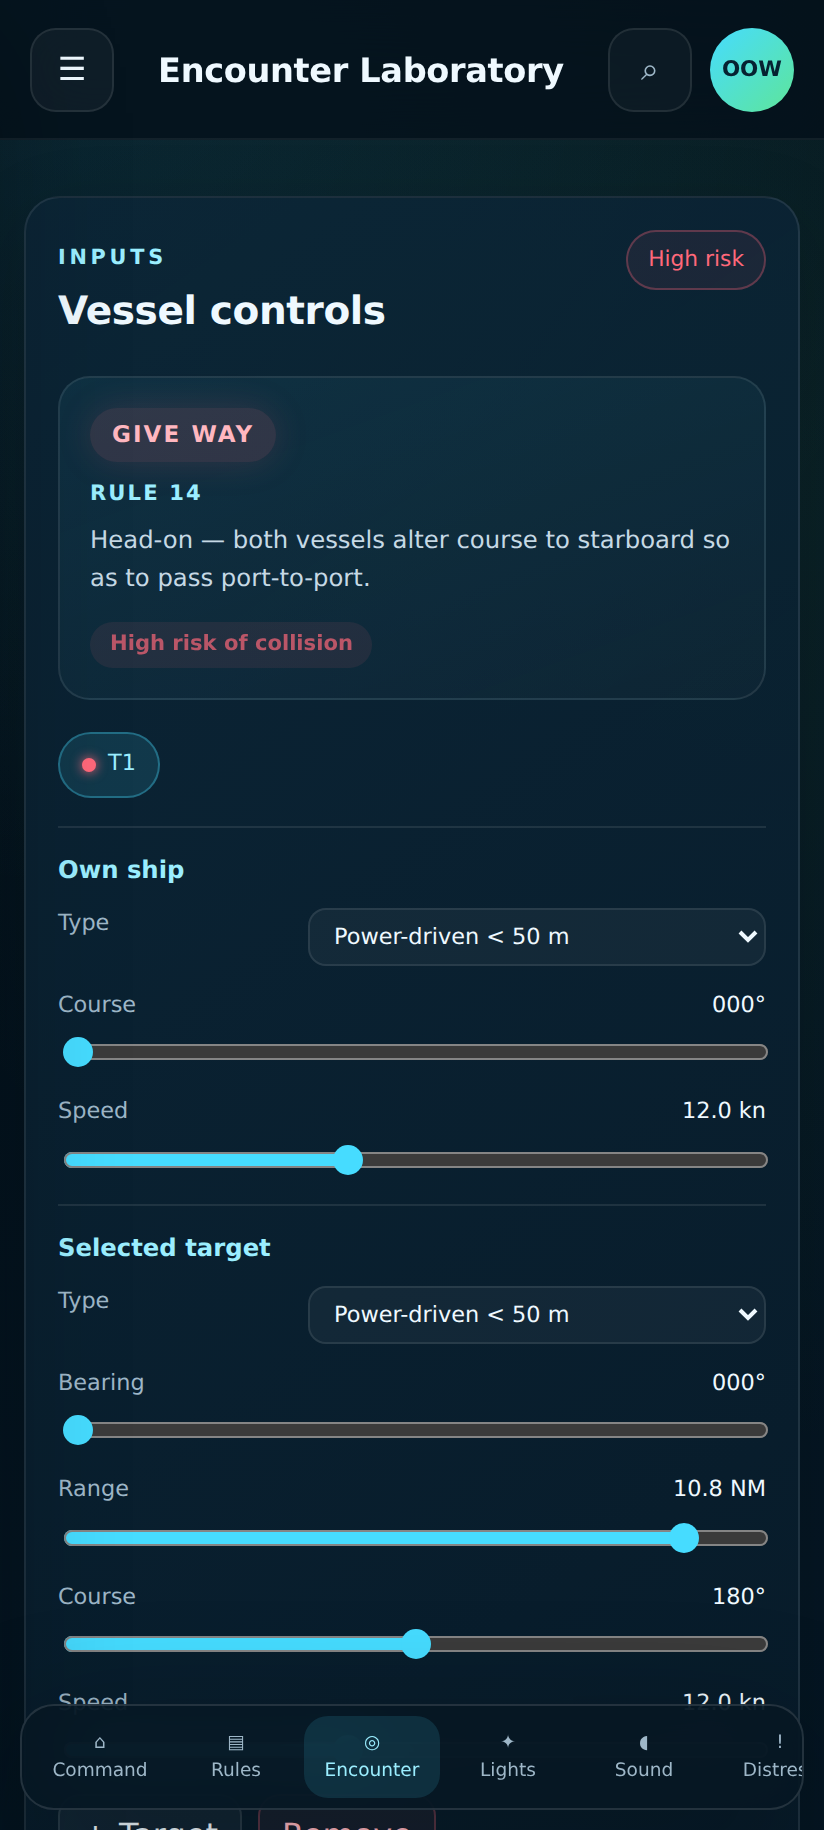
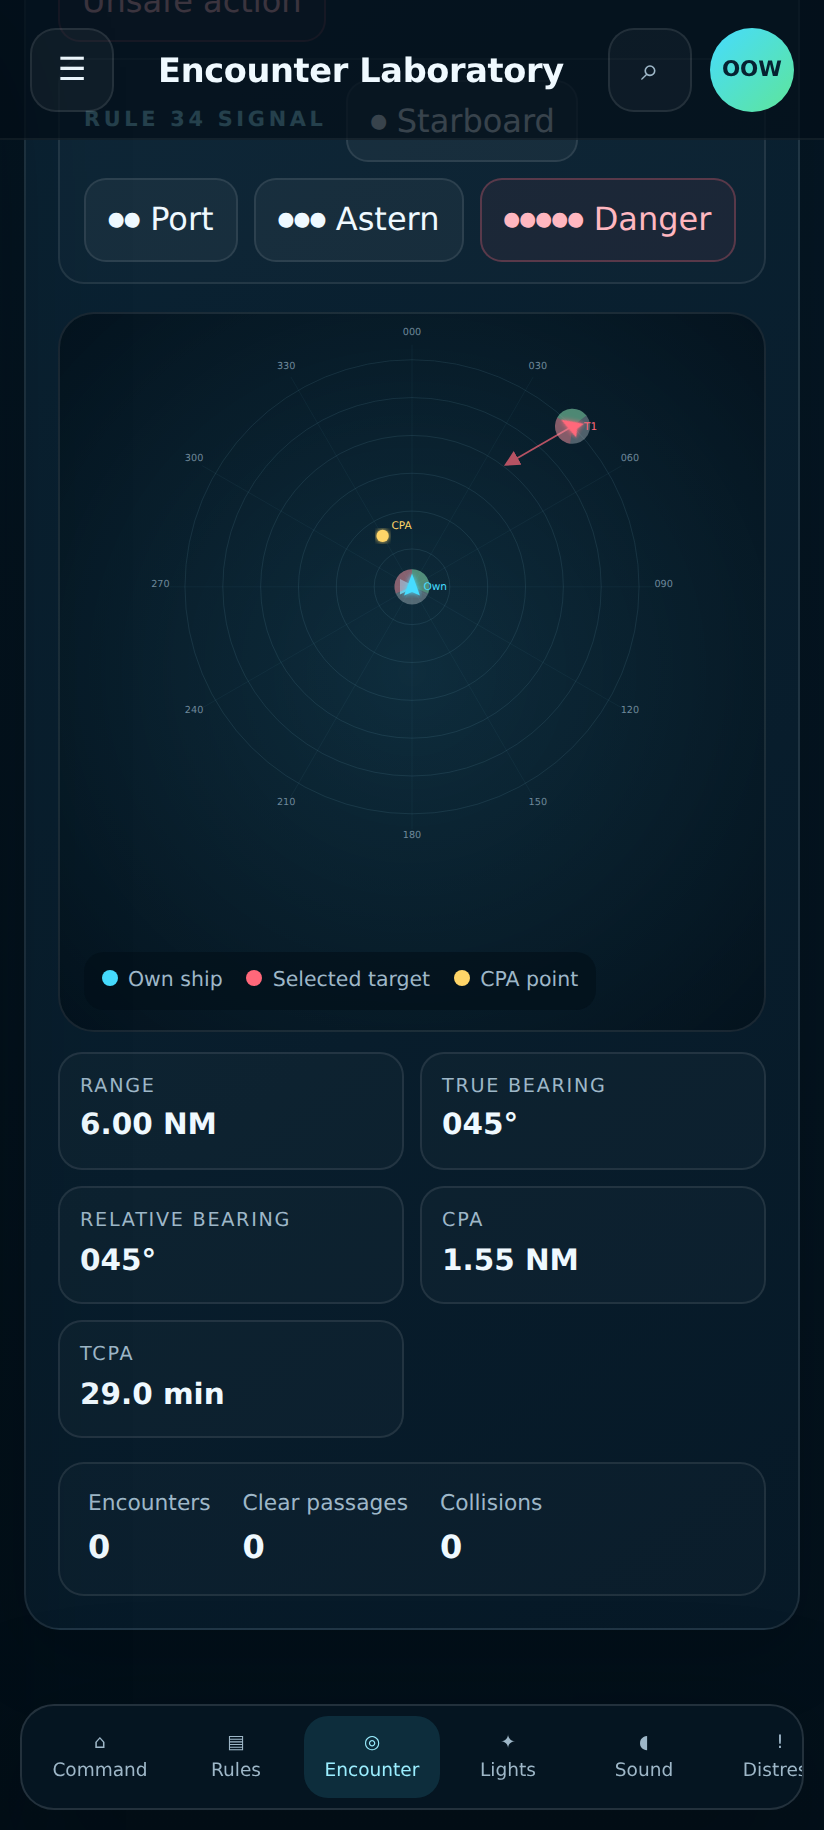
Fix the PWA label and regenerate the store screenshots
Bumps to v4.3.

The home screen described the app as a PWA, left over from its origin as a web
app. On Play it is a native Android app, and that was the one plainly wrong
string in a store-facing view. The stat now reads "No account needed", which is
true and worth saying.

The four phone screenshots predated the rename and sold the app badly. The
Encounter Lab was represented by a page of sliders rather than the radar plot,
and Lights and Shapes by a list rather than a rendered night aspect.

All four are regenerated from the current build by test/screenshots.js, which
is committed so they can be refreshed after a UI change instead of recaptured
by hand. The Encounter Lab shot sets up a starboard crossing inside the plot
scale, so the relative-motion vector, the CPA point and the CPA/TCPA readouts
are all visible; the default head-on at 10.8 NM pins both vessels to the rim
and leaves the plot looking empty. Lights and Shapes shows the rendered
masthead and sidelights under their rule heading. Sound and Light shows the
pinned sequence panel mid-playback. The fourth slot was a rules list and is now
that signals view, which is more distinctive.

Two capture traps are handled in the script and worth recording, because both
produce results that look fine until inspected:

Headless Chromium renders the top bar's backdrop-filter over scrolled content
as an opaque white band rather than a blur, which put a white third at the top
[…]

diff --git a/ror-colreg/test/screenshots.js b/ror-colreg/test/screenshots.js
@@ -1,0 +1,153 @@
+/**
+ * Regenerates the Play Store phone screenshots from the current index.html.
+ *
+ *   node shots.js app/src/main/assets/index.html /out/dir
+ *
+ * Two things this handles that hand-capturing does not:
+ *
+ * - The premium views render their paywall unless the app thinks it is
+ *   unlocked, so the dev-unlock key is set before load.
+ * - The top bar is translucent, so whatever is scrolled underneath shows
+ *   through. Large headings ghosting behind it read as a rendering bug in a
+ *   store listing, so frameAt() nudges the scroll until a heading is not the
+ *   thing sitting under the bar.
+ */
+const { chromium } = require('playwright');
+const path = require('path');
+const OUT = process.argv[3];
+
+const setControls = vals => {
+  for (const [id, v] of Object.entries(vals)) {
+    const el = document.getElementById(id);
+    if (!el) { console.log('missing control ' + id); continue; }
+    el.value = v;
+    el.dispatchEvent(new Event('input', { bubbles: true }));
+    el.dispatchEvent(new Event('change', { bubbles: true }));
+  }
+};
+
+// Put `sel` at `top` px, then step down until no text sits behind the top bar.
+// The bar is semi-transparent, so text behind it ghosts through and reads as a
+// rendering fault in a store listing.
+//
+// Two earlier probes gave false "clear" readings and are worth not repeating:
+// elementsFromPoint stops at the topmost element and reports clear when that
+// element is a container, and scoping the query to .workspace missed the
+// headings entirely because they are not inside it. This walks every leaf that
+// carries text and tests the rectangle, excluding the bar itself and the
+// off-canvas sidebar (which sits at negative x on a phone viewport and would
+// otherwise never let the loop terminate).
+// Park `sel` exactly `top` px down, no searching. Use when the right framing is
+// known: a heading sitting fully below the bar reads fine, whereas the same
+// heading half-swallowed by a translucent bar looks like a rendering fault, and
+// no amount of nudging hides it when it sits directly above the content.
+const frameExact = (sel, top) => {
+  const el = document.querySelector(sel);
+  if (!el) return 'missing ' + sel;
+  const y = Math.max(0, el.getBoundingClientRect().top + window.scrollY - top);
+  window.scrollTo({ top: y, behavior: 'instant' });
+  return 'parked at y=' + Math.round(y);
+};
+
+const frameAt = (sel, top) => {
+  const el = document.querySelector(sel);
+  if (!el) return 'missing ' + sel;
+  const bar = document.querySelector('.topbar');
+  const barH = bar ? bar.getBoundingClientRect().height : 82;
+  const base = el.getBoundingClientRect().top + window.scrollY - top;
+  const vw = document.documentElement.clientWidth;
+
+  const ghosts = () => {
+    const out = [];
+    for (const e of document.querySelectorAll('body *')) {
+      if (e.children.length || e.closest('.topbar') || e.closest('.sidebar')) continue;
+      const t = (e.textContent || '').trim();
+      if (!t) continue;
+      const r = e.getBoundingClientRect();
+      if (r.right <= 0 || r.left >= vw) continue;          // off-canvas
+      if (r.bottom <= 2 || r.top >= barH - 2) continue;
+      // Something always sits behind a sticky bar, and small controls showing
+      // faintly through 78%-opaque navy is just how the app looks on a device.
+      // Only large type ghosts badly enough to read as a rendering fault.
+      if (parseFloat(getComputedStyle(e).fontSize) < 20) continue;
+      out.push(e.tagName.toLowerCase() + ':' + t.slice(0, 16));
+    }
+    return out;
+  };
+
+  // Somewhere in a continuous page there may be no clean offset at all, so
+  // score every candidate and return to the best one. The earlier version left
+  // the page wherever the last iteration happened to land, which framed the
+  // shot worse than not trying.
+  let best = { score: Infinity, y: base, why: [] };
+  for (let step = 0; step <= 12; step++) {
+    const y = Math.max(0, base + step * 36);
+    window.scrollTo({ top: y, behavior: 'instant' });
+    const g = ghosts();
+    if (g.length < best.score) best = { score: g.length, y, why: g };
+    if (!g.length) break;
+  }
+  window.scrollTo({ top: best.y, behavior: 'instant' });
+  return best.score === 0
+    ? 'clear at y=' + Math.round(best.y)
+    : 'best of ' + best.score + ' at y=' + Math.round(best.y) + ': ' + best.why.join(' | ');
+};
+
+(async () => {
+  const browser = await chromium.launch({ executablePath: '/opt/pw-browsers/chromium' });
+  const file = 'file://' + path.resolve(process.argv[2]);
+
+  const shots = [
+    { name: '1-home', view: 'home', settle: 900 },
+    { name: '2-encounters', view: 'encounters', settle: 1400,
+      // The default is a head-on at 10.8 NM, which pins both vessels to the rim
+      // and leaves the plot looking empty. A starboard crossing inside the scale
+      // shows the give-way verdict the module exists for.
+      setup: { targetBearing: 45, targetRange: 6, targetCourse: 300, ownCourse: 0 },
+      frame: ['.plot-wrap', 150] },
+    { name: '3-lights', view: 'lights', settle: 1000, frameExact: ['.visual-stage', 78] },
+    { name: '4-signals', view: 'signals', settle: 900, play: true },
+  ];
+
+  for (const s of shots) {
+    const page = await browser.newPage({ viewport: { width: 412, height: 915 }, deviceScaleFactor: 2 });
+    await page.addInitScript(() => localStorage.setItem('ror_v3_premium_dev_unlock', 'true'));
+    page.on('pageerror', e => console.log('  PAGEERROR:', e.message));
+    await page.goto(file);
+    // Headless Chromium renders backdrop-filter over scrolled content as a
+    // white band rather than a blur. On a device the bar blurs dark content and
+    // reads as the solid dark it already declares underneath, so dropping the
+    // filter for the capture matches the real appearance instead of faking it.
+    await page.addStyleTag({ content:
+      '.topbar,.paywall-overlay{backdrop-filter:none!important;-webkit-backdrop-filter:none!important}'
+      // The app scrolls smoothly, so window.scrollTo animates and a rect read
+      // straight after it still reports the pre-scroll position. That made the
+      // ghost probe below report a clean frame at every offset it tried.
+      + '*{scroll-behavior:auto!important}' });
+    await page.waitForTimeout(500);
+
+    await page.click(`#mobileNav [data-view="${s.view}"]`);
+    await page.waitForTimeout(s.settle);
+
+    if (s.setup) { await page.evaluate(setControls, s.setup); await page.waitForTimeout(700); }
+    if (s.play) {
+      const b = page.locator('[data-play-signal]').first();
+      if (await b.count()) { await b.click(); await page.waitForTimeout(400); }
+    }
+    const framing = s.frame || s.frameExact;
+    if (framing) {
+      const fn = (s.frame ? frameAt : frameExact).toString();
+      const under = await page.evaluate(
+        ([f, sel, top]) => new Function('return ' + f)()(sel, top),
+        [fn, framing[0], framing[1]]);
+      await page.waitForTimeout(700);
+      console.log(`  ${s.name}: under top bar -> ${under}`);
+    }
+
+    const out = `${OUT}/store-${s.name}.png`;
+    await page.screenshot({ path: out });
+    console.log('  wrote', out);
+    await page.close();
+  }
+  await browser.close();
+})();

diff --git a/ror-colreg/app/src/main/assets/index.html b/ror-colreg/app/src/main/assets/index.html
@@ -109,7 +109,7 @@ button.wrong,.wrong[role="button"]{border-color:rgba(255,104,122,.58)!important;
 .buoy-rhythm-player{display:grid;grid-template-columns:44px minmax(0,1fr);gap:10px;align-items:center;margin:13px 0 16px}.buoy-rhythm-player .small-btn{grid-column:1/-1}.buoy-live-lamp{width:38px;height:38px;border-radius:50%;border:2px solid rgba(255,255,255,.22);background:#132a38;transition:.08s ease;box-shadow:inset 0 0 12px rgba(0,0,0,.6)}.buoy-live-lamp.on{background:var(--lamp-colour,#f5fbff);box-shadow:0 0 14px 4px var(--lamp-colour,#f5fbff),0 0 34px var(--lamp-colour,#f5fbff)}#buoyRhythmStrip{position:relative;margin:0}.rhythm-playhead{position:absolute;z-index:4;left:0;top:3px;bottom:3px;width:2px;background:var(--cyan);box-shadow:0 0 8px var(--cyan)}
 
   </style>
-  <title>Nanu ROR Visual Deck — Complete Edition V4.2 (Standalone)</title>
+  <title>Nanu ROR Visual Deck — Complete Edition V4.3 (Standalone)</title>
 </head>
 <body>
 <div class="app-shell">
@@ -118,7 +118,7 @@ button.wrong,.wrong[role="button"]{border-color:rgba(255,104,122,.58)!important;
       <div class="brand-logo" aria-hidden="true">
         <svg viewBox="0 0 64 64"><path d="M32 7v42M18 20h28M12 39c2 11 10 17 20 17s18-6 20-17M22 39c0 6 4 10 10 10s10-4 10-10" fill="none" stroke="currentColor" stroke-width="5" stroke-linecap="round"/><circle cx="32" cy="12" r="4" fill="currentColor"/></svg>
       </div>
-      <div><strong>Nanu ROR Visual Deck</strong><span>Complete Edition · V4.2</span></div>
+      <div><strong>Nanu ROR Visual Deck</strong><span>Complete Edition · V4.3</span></div>
     </div>
     <nav class="nav-list" id="desktopNav" aria-label="Main navigation"></nav>
     <div class="sidebar-card">
@@ -292,7 +292,7 @@ function favStar(key){return `<button class="fav-star ${isFavorite(key)?'active'
 const NAV=[
  ['home','⌂','Command Centre'],['rules','▤','Rules 1–41'],['encounters','◎','Encounter Lab'],['lights','✦','Lights & Shapes'],['signals','◖','Sound & Light'],['distress','!','Distress'],['iala','◆','IALA Buoyage'],['annexes','§','Annexes I–IV'],['radar','⊕','Radar Plotting'],['study','▱','Flashcards'],['oral','◉','Oral Practice'],['exam','✓','Exam Mode'],['progress','▥','Progress'],['about','i','About']
 ];
-const META={home:['Bridge learning system','Command Centre'],rules:['COLREG reference','Rules 1–41'],encounters:['Live vector calculation','Encounter Laboratory'],lights:['Part C','Lights and Shapes'],signals:['Parts D and Annex III','Sound and Light Signals'],distress:['Annex IV','Distress Recognition'],iala:['IALA R1001','Maritime Buoyage'],annexes:['Technical reference','Annexes I–IV'],radar:['Relative motion','Radar Plotting'],study:['Active recall','Flashcard Deck'],oral:['OOW examination','Oral Practice'],exam:['Mixed assessment','Exam Mode'],progress:['Learning analytics','Progress'],about:['Release information','About V4.2']};
+const META={home:['Bridge learning system','Command Centre'],rules:['COLREG reference','Rules 1–41'],encounters:['Live vector calculation','Encounter Laboratory'],lights:['Part C','Lights and Shapes'],signals:['Parts D and Annex III','Sound and Light Signals'],distress:['Annex IV','Distress Recognition'],iala:['IALA R1001','Maritime Buoyage'],annexes:['Technical reference','Annexes I–IV'],radar:['Relative motion','Radar Plotting'],study:['Active recall','Flashcard Deck'],oral:['OOW examination','Oral Practice'],exam:['Mixed assessment','Exam Mode'],progress:['Learning analytics','Progress'],about:['Release information','About V4.3']};
 const MODULES=[
  ['rules','▤','41 rules','Bridge meaning, exact rule number and oral traps.'],['encounters','◎','Encounter lab','Vessel-type selection, day/night lights and shapes, live give-way/stand-on verdicts and collision-risk scoring.'],['lights','✦',`${D.lights.length} vessel profiles`,'Night aspects, day shapes and identification drills.'],['signals','◖','Sound & light','Rule 34/35 whistle, bell, gong and flashes.'],['distress','!','Annex IV','Visual and audio distress recognition.'],['iala','◆','IALA trainer','Region A/B, cardinal rhythms and route challenges.'],['annexes','§','Four annexes','Technical tables, fishing signals and distress.'],['radar','⊕','Radar plotting','Two-observation relative and true-vector solution.'],['study','▱','Flashcards','Active recall across every module.'],['oral','◉','Oral practice','36 model answers with rule references.'],['exam','✓','Exam mode','Large generated visual and theory question bank.'],['progress','▥','Analytics','Attempts, topic weakness and study confidence.']
 ];
@@ -411,7 +411,7 @@ function importBackupFromFile(file){
 function overallProgress(){const p=getProgress();const best=p.history.reduce((m,x)=>Math.max(m,x.pct),0);const studied=p.study.hard+p.study.again+p.study.good;const completed=Math.min(100,Math.round(best*.55+Math.min(studied,60)/60*25+Math.min(p.history.length,10)/10*20));return {completed,best,studied,attempts:p.history.length}}
 
 function renderHome(){
- $('#heroStats').innerHTML=[['41','Rules'],[D.lights.length,'Vessel profiles'],[QUESTION_BANK.length,'Exam questions'],['Offline','PWA']].map(x=>`<div class="hero-stat"><strong>${x[0]}</strong><span>${x[1]}</span></div>`).join('');
+ $('#heroStats').innerHTML=[['41','Rules'],[D.lights.length,'Vessel profiles'],[QUESTION_BANK.length,'Exam questions'],['Offline','No account needed']].map(x=>`<div class="hero-stat"><strong>${x[0]}</strong><span>${x[1]}</span></div>`).join('');
  $('#moduleCount').textContent=`${MODULES.length} touch-first modules`;
  $('#moduleGrid').innerHTML=MODULES.map(([id,ic,t,d])=>`<article class="module-card" data-go="${id}">${isLockedView(id)?'<span class="module-lock">🔒 Premium</span>':''}<div class="micon">${ic}</div><h4>${t}</h4><p>${d}</p></article>`).join('');
  const pg=overallProgress();

diff --git a/ror-colreg/PLAY_STORE_CHECKLIST.md b/ror-colreg/PLAY_STORE_CHECKLIST.md
@@ -191,8 +191,24 @@ Drafted for you — trim/adjust freely:
   generated from the same artwork as the in-app icon.
 - **Feature graphic (1024×500 PNG)** — delivered to you separately,
   matching the in-app dark-navy/cyan look.
-- **Phone screenshots** (min 2, recommend 4-8) — delivered to you
-  separately, captured directly from the running app at phone size.
+- **Phone screenshots** (min 2, recommend 4-8) — four in
+  `store-assets/`, 824x1830, captured from the running app.
+
+  Regenerate them after any UI change rather than recapturing by hand:
+
+  ```
+  npm i playwright
+  node test/screenshots.js app/src/main/assets/index.html store-assets
+  ```
+
+  The script sets the dev-unlock key so the premium views render instead of
+  their paywall, sets up a starboard crossing in the Encounter Lab (the
+  default head-on at 10.8 NM pins both vessels to the rim and leaves the plot
+  looking empty), and works around two capture traps: headless Chromium
+  renders the top bar's `backdrop-filter` over scrolled content as a white
+  band rather than a blur, and the app scrolls smoothly, so a measurement
+  taken straight after `scrollTo` still reports the pre-scroll position.
+  Both are neutralised for the capture only, not in the app.
 
 ### 7. Play Console forms (must be filled in by the account holder)
 
